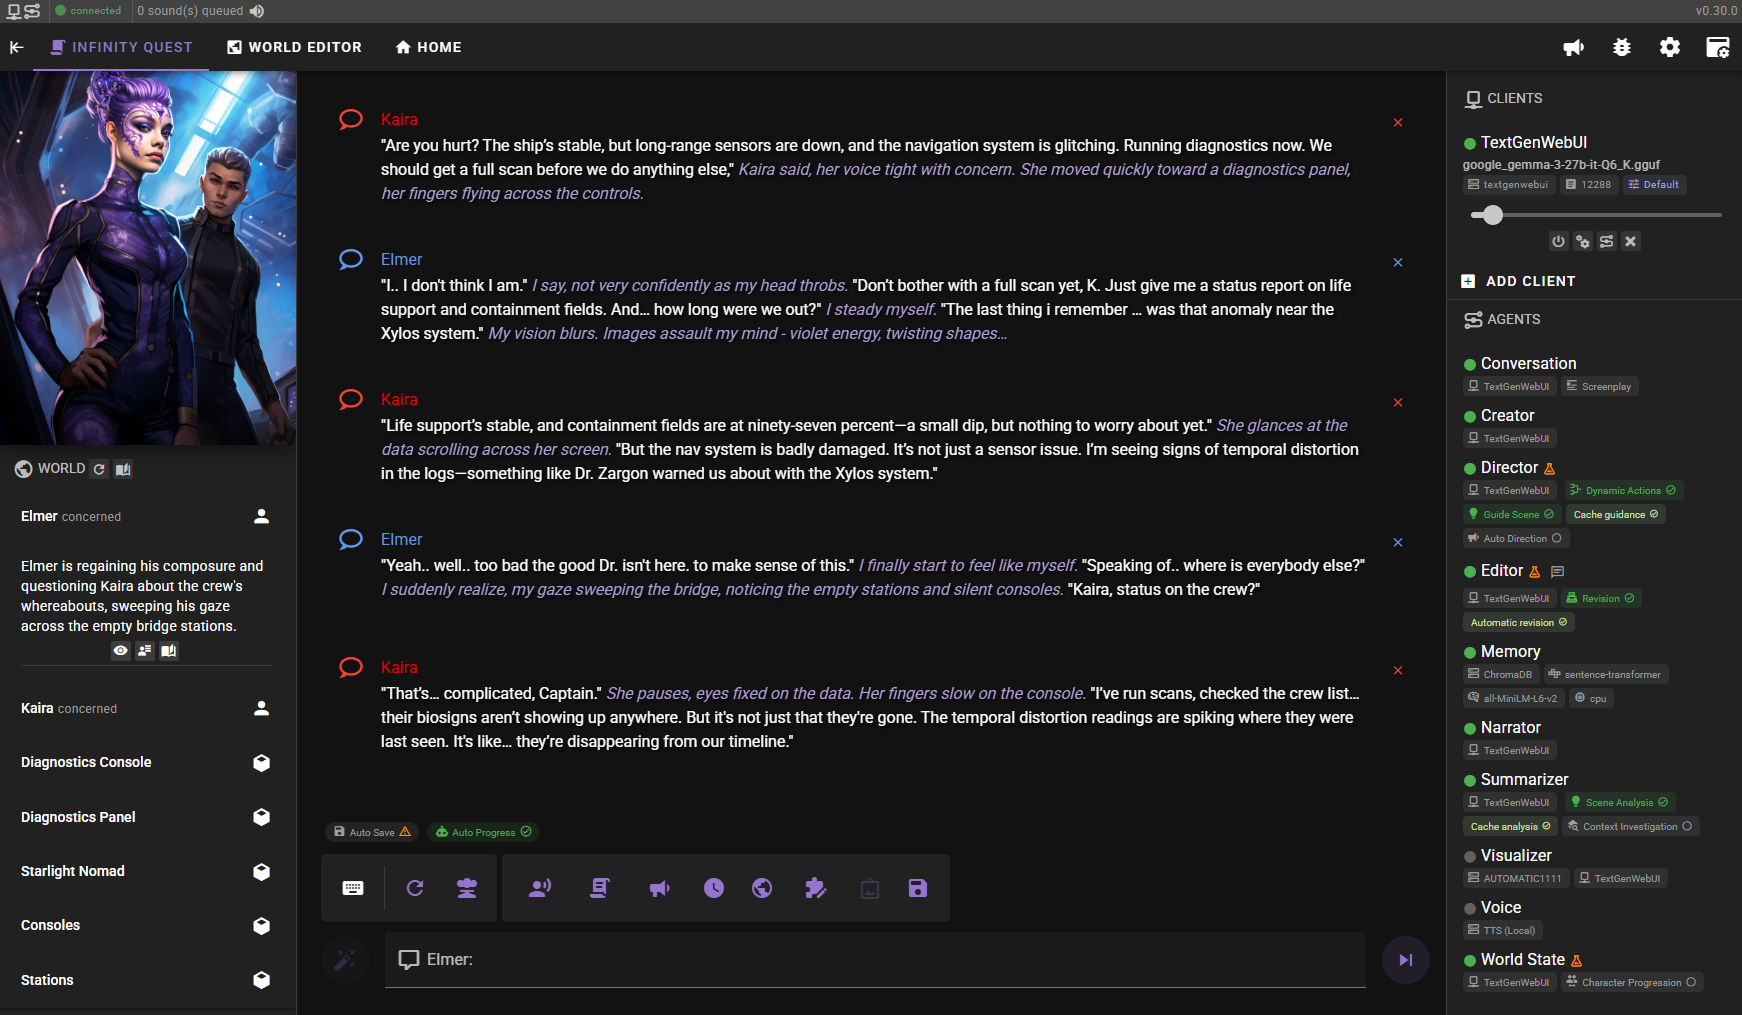
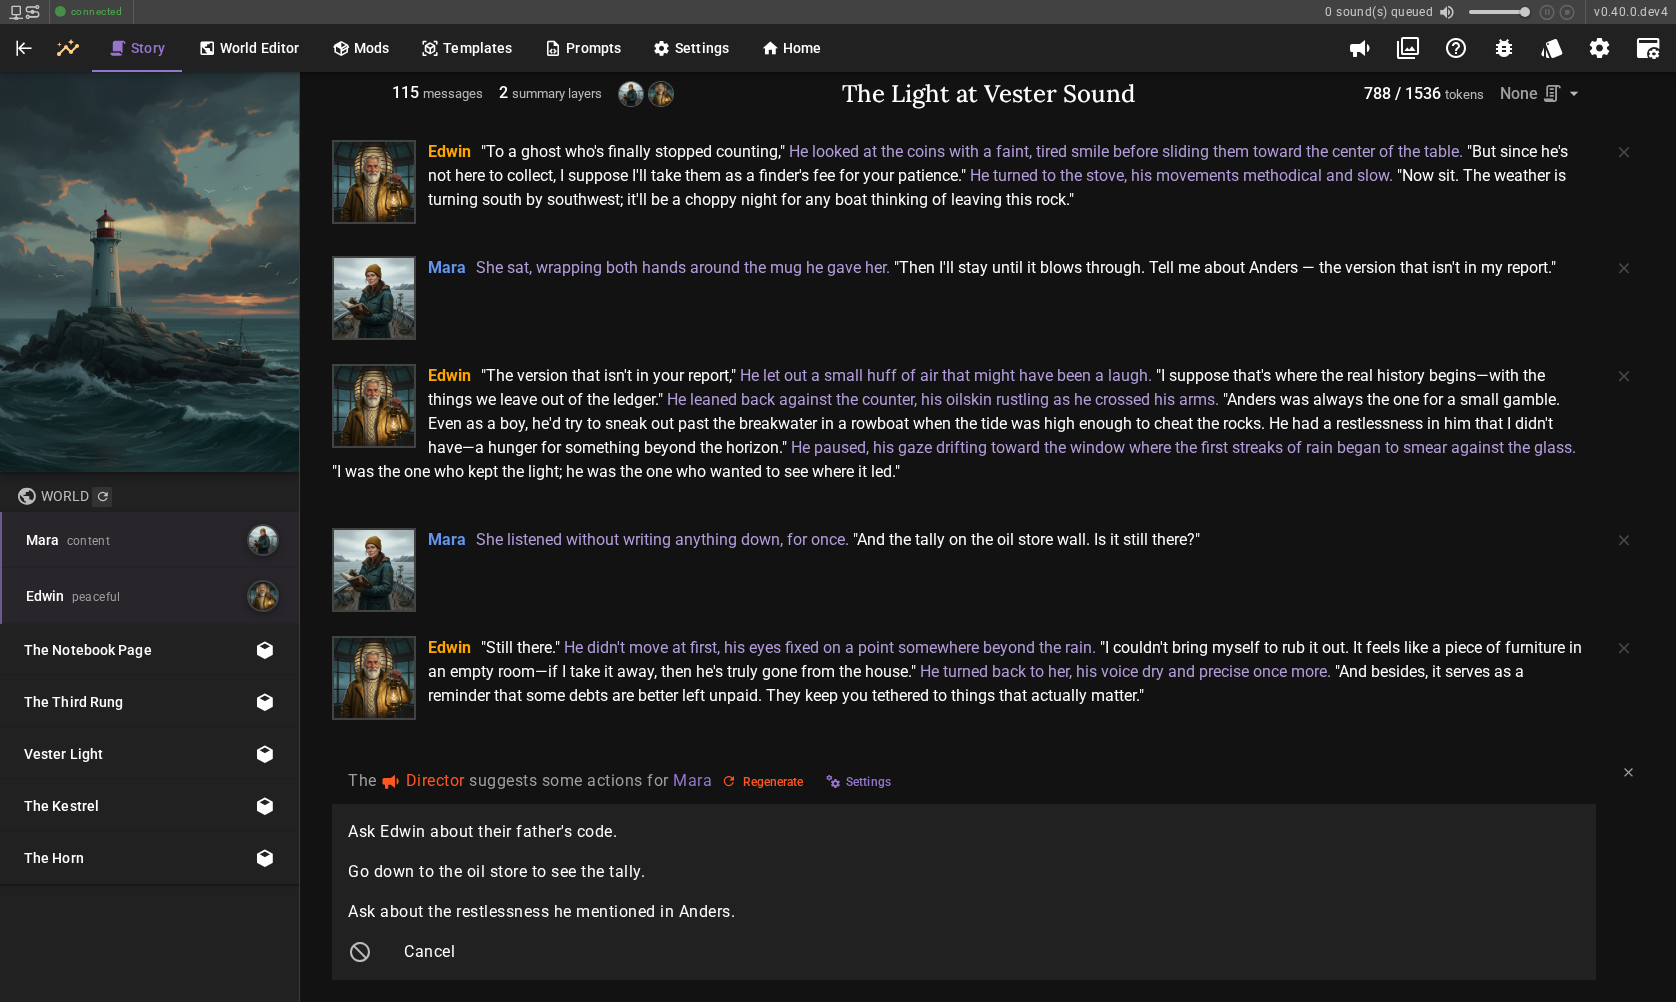
README: update text and screenshots for 0.40 (#882)
* docs: update README features, supported APIs and links for 0.40 (#879)

* docs: replace README screenshots ss-1, ss-2 and ss-4 with 0.40 views (#879)

* docs: README ss-2 shows image generation, ss-4 shows the Simulation Suite (#879)

diff --git a/README.md b/README.md
@@ -1,26 +1,33 @@
 # Talemate
 
-Roleplay with AI with a focus on strong narration and consistent world and game state tracking.
+Roleplay with AI, with a focus on narration and consistent world and game state tracking.
 
 <div align="center">
 
-|<img src="docs/img/ss-1.png" width="400" height="250" alt="Screenshot 1">|<img src="docs/img/ss-2.png" width="400" height="250" alt="Screenshot 2">|
+|<img src="docs/img/ss-1.png" width="400" height="250" alt="Scene view: AI-written dialogue between two characters with portraits, the characters, places and objects tracked in the World panel, and the Director's suggested next actions for the player">|<img src="docs/img/ss-2.png" width="400" height="250" alt="Visual library review queue: generated portraits of two characters, a scene background and a scene illustration, with the illustration's prompt and metadata">|
 |------------------------------------------|------------------------------------------|
-|<img src="docs/img/ss-3.png" width="400" height="250" alt="Screenshot 3">|<img src="docs/img/ss-4.png" width="400" height="250" alt="Screenshot 4">|
+|<img src="docs/img/ss-3.png" width="400" height="250" alt="Node editor showing the generate-storyline module, with its stages and connected nodes">|<img src="docs/img/ss-4.png" width="400" height="250" alt="Simulation Suite: the player asks the computer to add a character, the computer adds the cabin steward to the simulation, and the narration that follows">|
 
 </div>
 
 ## Core Features
 
-- Multiple agents for dialogue, narration, summarization, direction, editing, world state management, character/scenario creation, text-to-speech, and visual generation
-- Supports per agent API selection
-- Long-term memory and passage of time tracking
-- Narrative world state management to reinforce character and world truths
-- Creative tools for managing NPCs, AI-assisted character, and scenario creation with template support
-- Node editor for creating complex scenarios and re-usable modules
-- Context management for character details, world information, past events, and pinned information
-- Customizable templates for all prompts using Jinja2
-- Modern, responsive UI
+- Agents for dialogue, narration, summarization, scene direction, editing, world state tracking, character and scenario creation, text-to-speech, image generation, and answering questions about Talemate itself
+- A separate client and model per agent, with optional per-scene agent settings
+- Long-term memory, layered history summaries and tracking of the passage of time
+- Tracked character and world states, pins and game state variables that are kept in the AI's context
+- [Character knowledge](https://vegu-ai.github.io/talemate/user-guide/world-editor/knowledge/): characters know only the passages they were present for and the information shared with them, with Learn / Never Learn rules for exceptions
+- [Character perspectives](https://vegu-ai.github.io/talemate/user-guide/perspective-view/) (optional mode): each character keeps their own account of events, used for their memories and summaries and readable beside the story
+- [Decision model](https://vegu-ai.github.io/talemate/user-guide/app-settings/decision-model/) (optional): a small model answers questions about the story with a probability, so other agents can skip or choose without a full request; every answer is listed in a Decision Log
+- [Director chat](https://vegu-ai.github.io/talemate/user-guide/agents/director/chat/) to query and change the scene in conversation, and optional autonomous scene direction
+- World editor for characters, world entries, history, pins and the context database, with AI-assisted character and scenario creation from templates and character card import
+- Image generation for character portraits, scene illustrations and backdrops, managed in a visual library
+- Text-to-speech with per-character voices and several local and remote backends
+- [Node editor](https://vegu-ai.github.io/talemate/user-guide/node-editor/) for scene logic and reusable modules
+- [Scene revisions](https://vegu-ai.github.io/talemate/user-guide/restoring-scenes/) to browse saved states per message and fork a new save from any of them, and [replay](https://vegu-ai.github.io/talemate/user-guide/replay/) to step through a story one passage at a time
+- [Prompt manager](https://vegu-ai.github.io/talemate/user-guide/prompts/): every prompt is a Jinja2 template that can be overridden
+- [Themes](https://vegu-ai.github.io/talemate/user-guide/templates/themes/): light and dark themes, and your own themes edited with a live preview
+- [Help agent](https://vegu-ai.github.io/talemate/user-guide/agents/help/) that answers questions about Talemate from the bundled documentation and, with your permission, changes settings, themes and templates
 
 ## Documentation
 
@@ -30,26 +37,27 @@ Roleplay with AI with a focus on strong narration and consistent world and game 
 
 ## Discord Community
 
-Need help? Join the new [Discord community](https://discord.gg/8bGNRmFxMj)
+Need help? Join the [Discord community](https://discord.gg/8bGNRmFxMj)
 
 ## Supported APIs
 
 - [OpenAI](https://platform.openai.com/overview)
 - [Anthropic](https://www.anthropic.com/)
+- [Google Gemini](https://ai.google.dev/) (Gemini API key or Vertex AI)
 - [mistral.ai](https://mistral.ai/)
-- [Cohere](https://www.cohere.com/)
-- [Groq](https://www.groq.com/)
-- [Google Gemini](https://console.cloud.google.com/)
+- [Cohere](https://cohere.com/)
+- [Groq](https://groq.com/)
+- [DeepSeek](https://platform.deepseek.com/)
 - [OpenRouter](https://openrouter.ai/)
 
 Supported self-hosted APIs:
+- [llama.cpp](https://github.com/ggml-org/llama.cpp) (`llama-server`)
 - [KoboldCpp](https://koboldai.org/cpp) ([Local](https://koboldai.org/cpp), [Runpod](https://koboldai.org/runpodcpp), [VastAI](https://koboldai.org/vastcpp), also includes image gen support)
 - [oobabooga/text-generation-webui](https://github.com/oobabooga/text-generation-webui) (local or with runpod support)
 - [LMStudio](https://lmstudio.ai/)
 - [TabbyAPI](https://github.com/theroyallab/tabbyAPI/)
 - [Ollama](https://ollama.com/)
 
-Generic OpenAI api implementations (tested and confirmed working):
-- [DeepInfra](https://deepinfra.com/)
-- [llamacpp](https://github.com/ggerganov/llama.cpp) with the `api_like_OAI.py` wrapper
-- let me know if you have tested any other implementations and they failed / worked or landed somewhere in between
+Other clients:
+- [OpenAI compatible](https://vegu-ai.github.io/talemate/user-guide/clients/types/openai-compatible/) - any server with an OpenAI-style completions or chat completions API, for example [DeepInfra](https://deepinfra.com/)
+- [Pi Bridge](https://vegu-ai.github.io/talemate/user-guide/clients/types/pi-bridge/) - runs generations through the [pi coding agent](https://github.com/earendil-works/pi), which handles provider authentication and model selection
